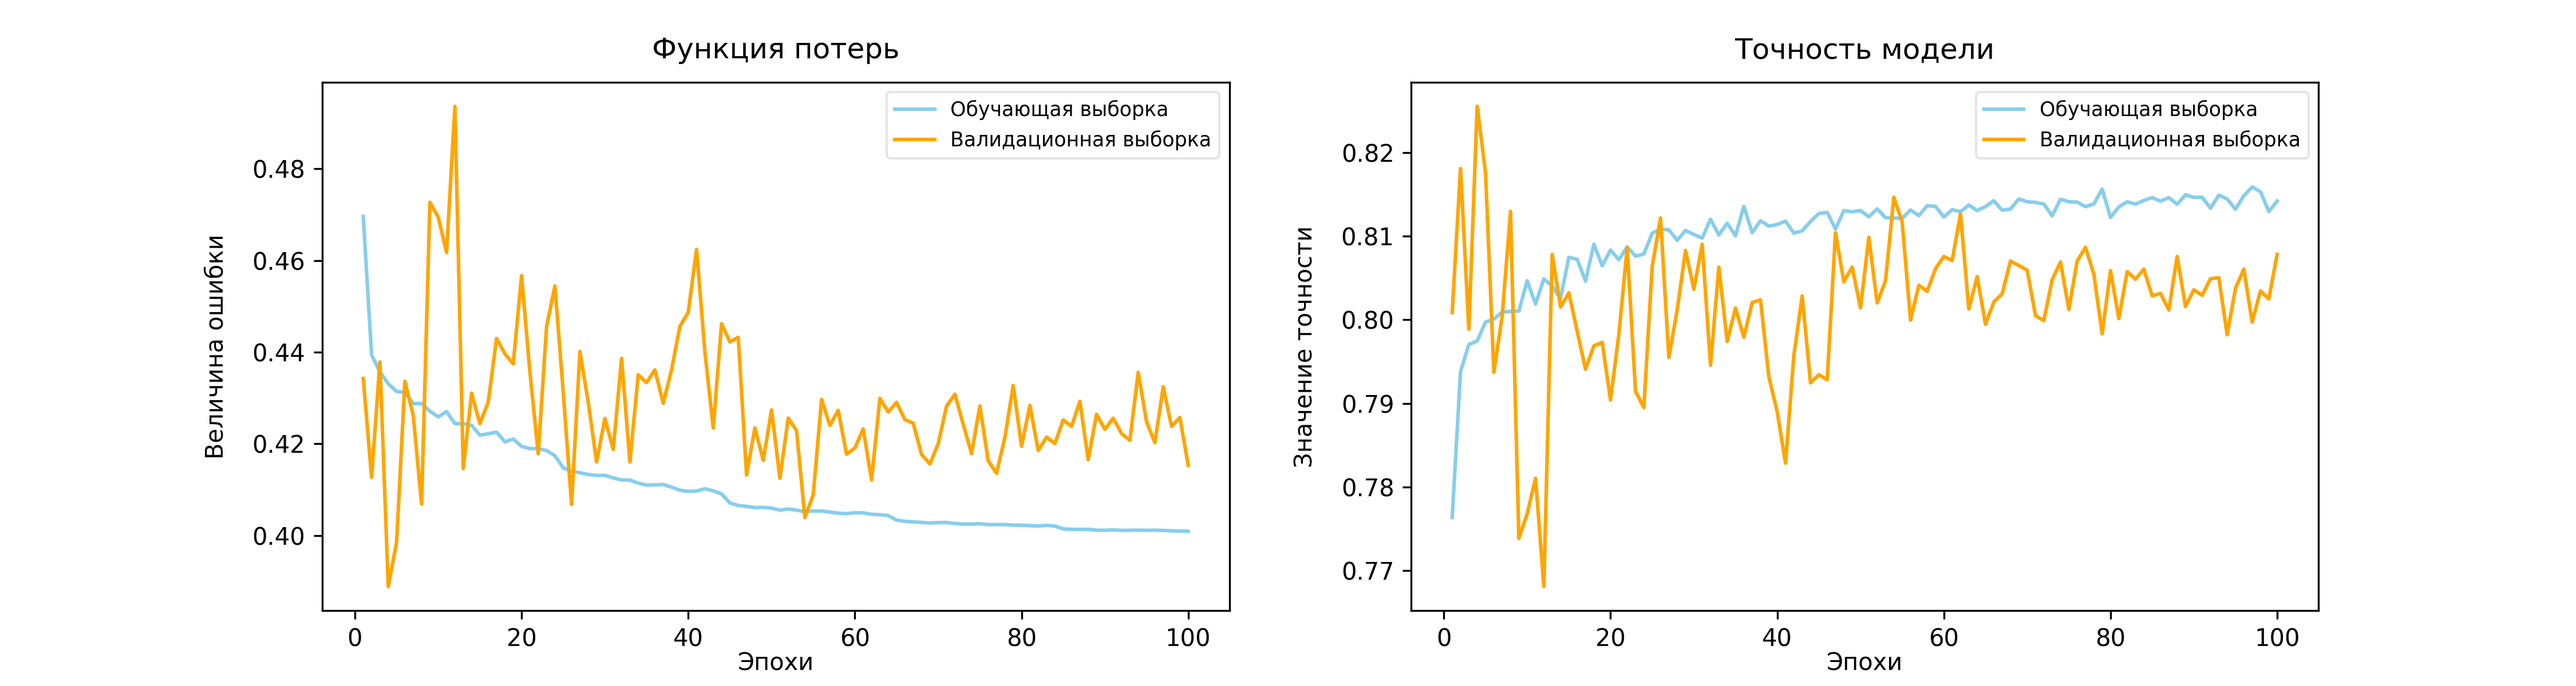
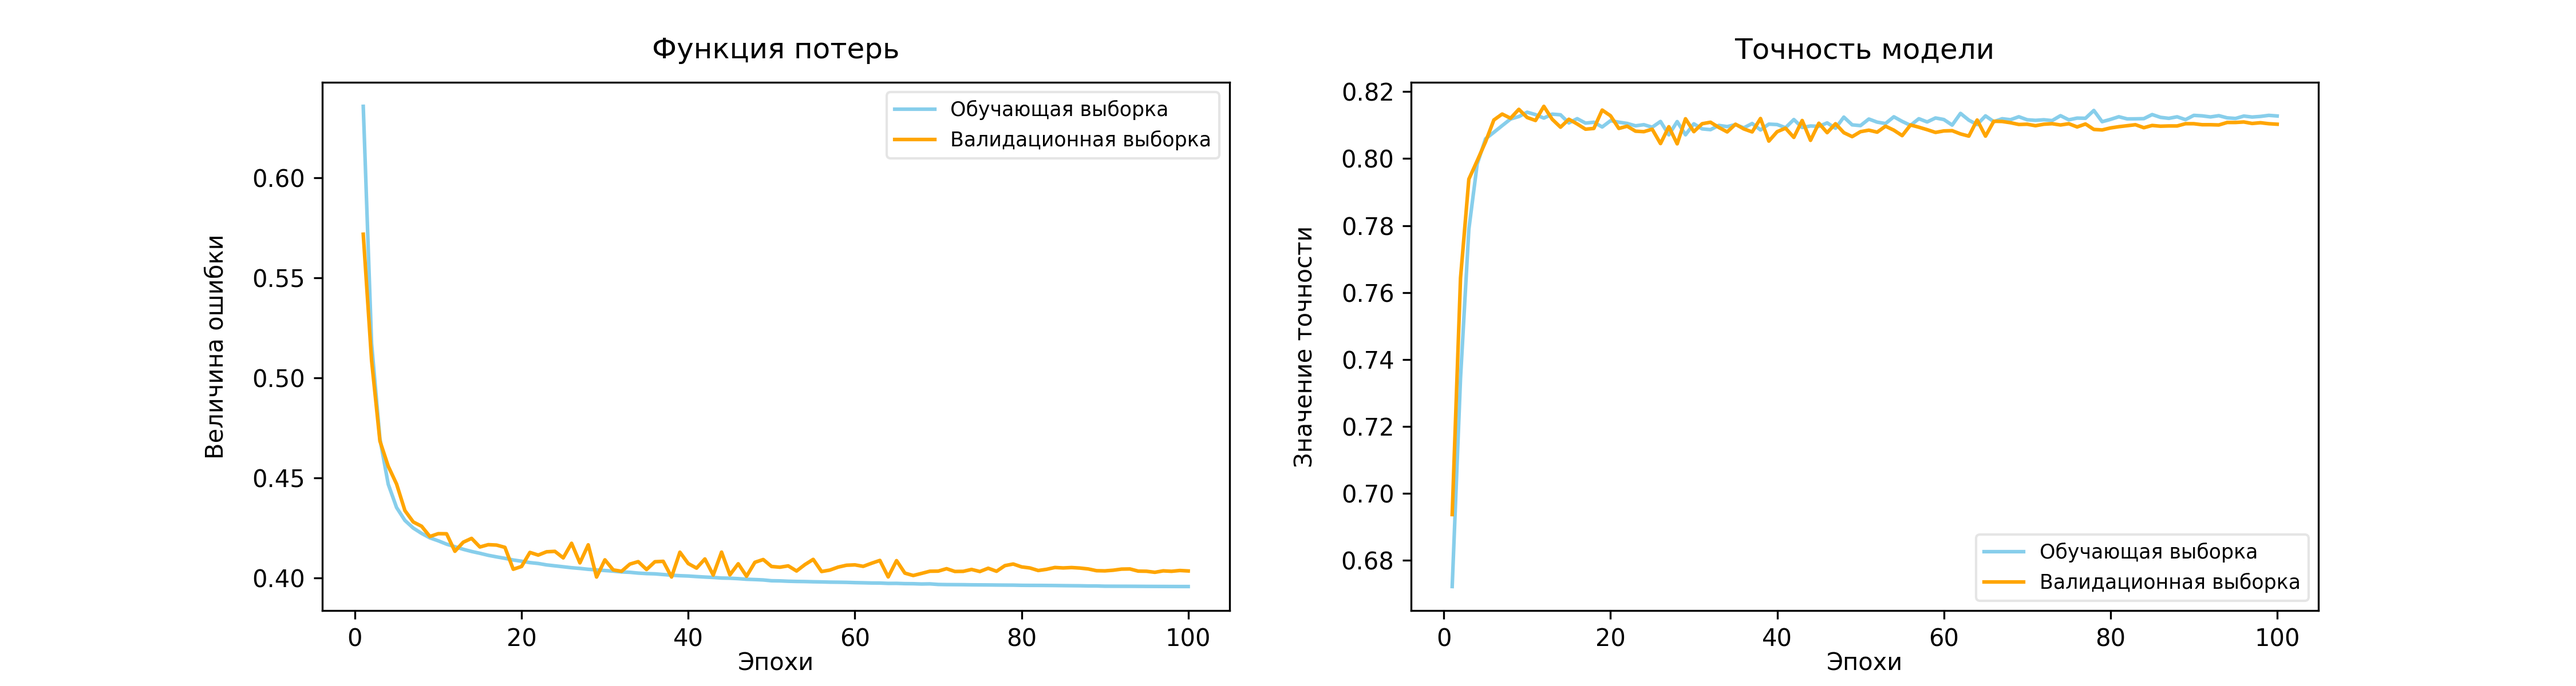
Base model experiments

diff --git a/train-softmax.py b/train-softmax.py
@@ -10,9 +10,9 @@ from utils.plots import *
 from utils.models import *
 from utils.processing import *
 
-repeats = 1  # кол-во повторений обучения
+repeats = 3  # кол-во повторений обучения
 # Прочитаем данные:
-df = pd.read_csv("./data/ferritin-all.csv", sep=",", dtype={"hgb": float})
+df = pd.read_csv("./data/ferritin-lab1.csv", sep=",", dtype={"hgb": float})
 print(df.head())
 print(df.shape)
 print(df.dtypes)
@@ -79,7 +79,7 @@ for key in list_statistics[0].keys():
     avg_statistics[f"list_{key}"] = results
 
 with open(
-    f"./output/base_model/res-all_data-{hidden_units}-units.json",
+    f"./output/base_model/res-lab1-{hidden_units}-units.json",
     "w",
 ) as file:
     json.dump(avg_statistics, file, ensure_ascii=False, indent=4)

diff --git a/select_first_lab.py b/select_first_lab.py
@@ -1,0 +1,35 @@
+import pandas as pd
+
+labels = [
+    "gender",
+    "age",
+    "hgb",
+    "rbc",
+    "mcv",
+    "plt",
+    "wbc",
+    "neut",
+    "lymph",
+    "eo",
+    "baso",
+    "mono",
+    "ferritin",
+]
+
+lab = pd.read_csv("./data/lab.csv", sep=",", dtype={"sampleno": str, "hgb": float})
+print(lab.shape)
+print(lab)
+
+ferritin = (
+    lab[(lab["ferritin"].notna()) & (lab["ferritin"] >= 0.0) & (lab["lab_id"] == 1)]
+    .reset_index(drop=True)
+    .filter(items=labels)
+)
+print(ferritin.shape)
+print(ferritin)
+
+ferritin.dropna(inplace=True, ignore_index=True)
+print(ferritin.shape)
+print(ferritin)
+
+ferritin.to_csv("./data/ferritin-lab1.csv", sep=",", index=False)

diff --git a/utils/models.py b/utils/models.py
@@ -75,7 +75,7 @@ def create_softmax_model(hidden_units, class_weight) -> Model:
 
     model = Model(inputs=input, outputs=output)
 
-    opt = keras.optimizers.Adam(learning_rate=0.003)
+    opt = keras.optimizers.Adam(learning_rate=0.0002)
     l = keras.losses.CategoricalCrossentropy()
     m = keras.metrics.CategoricalAccuracy()
 

diff --git a/utils/callbacks.py b/utils/callbacks.py
@@ -33,7 +33,6 @@ def early_stopping() -> EarlyStopping:
         mode="auto",
         baseline=None,
         restore_best_weights=True,
-        start_from_epoch=0,
     )
 
 
